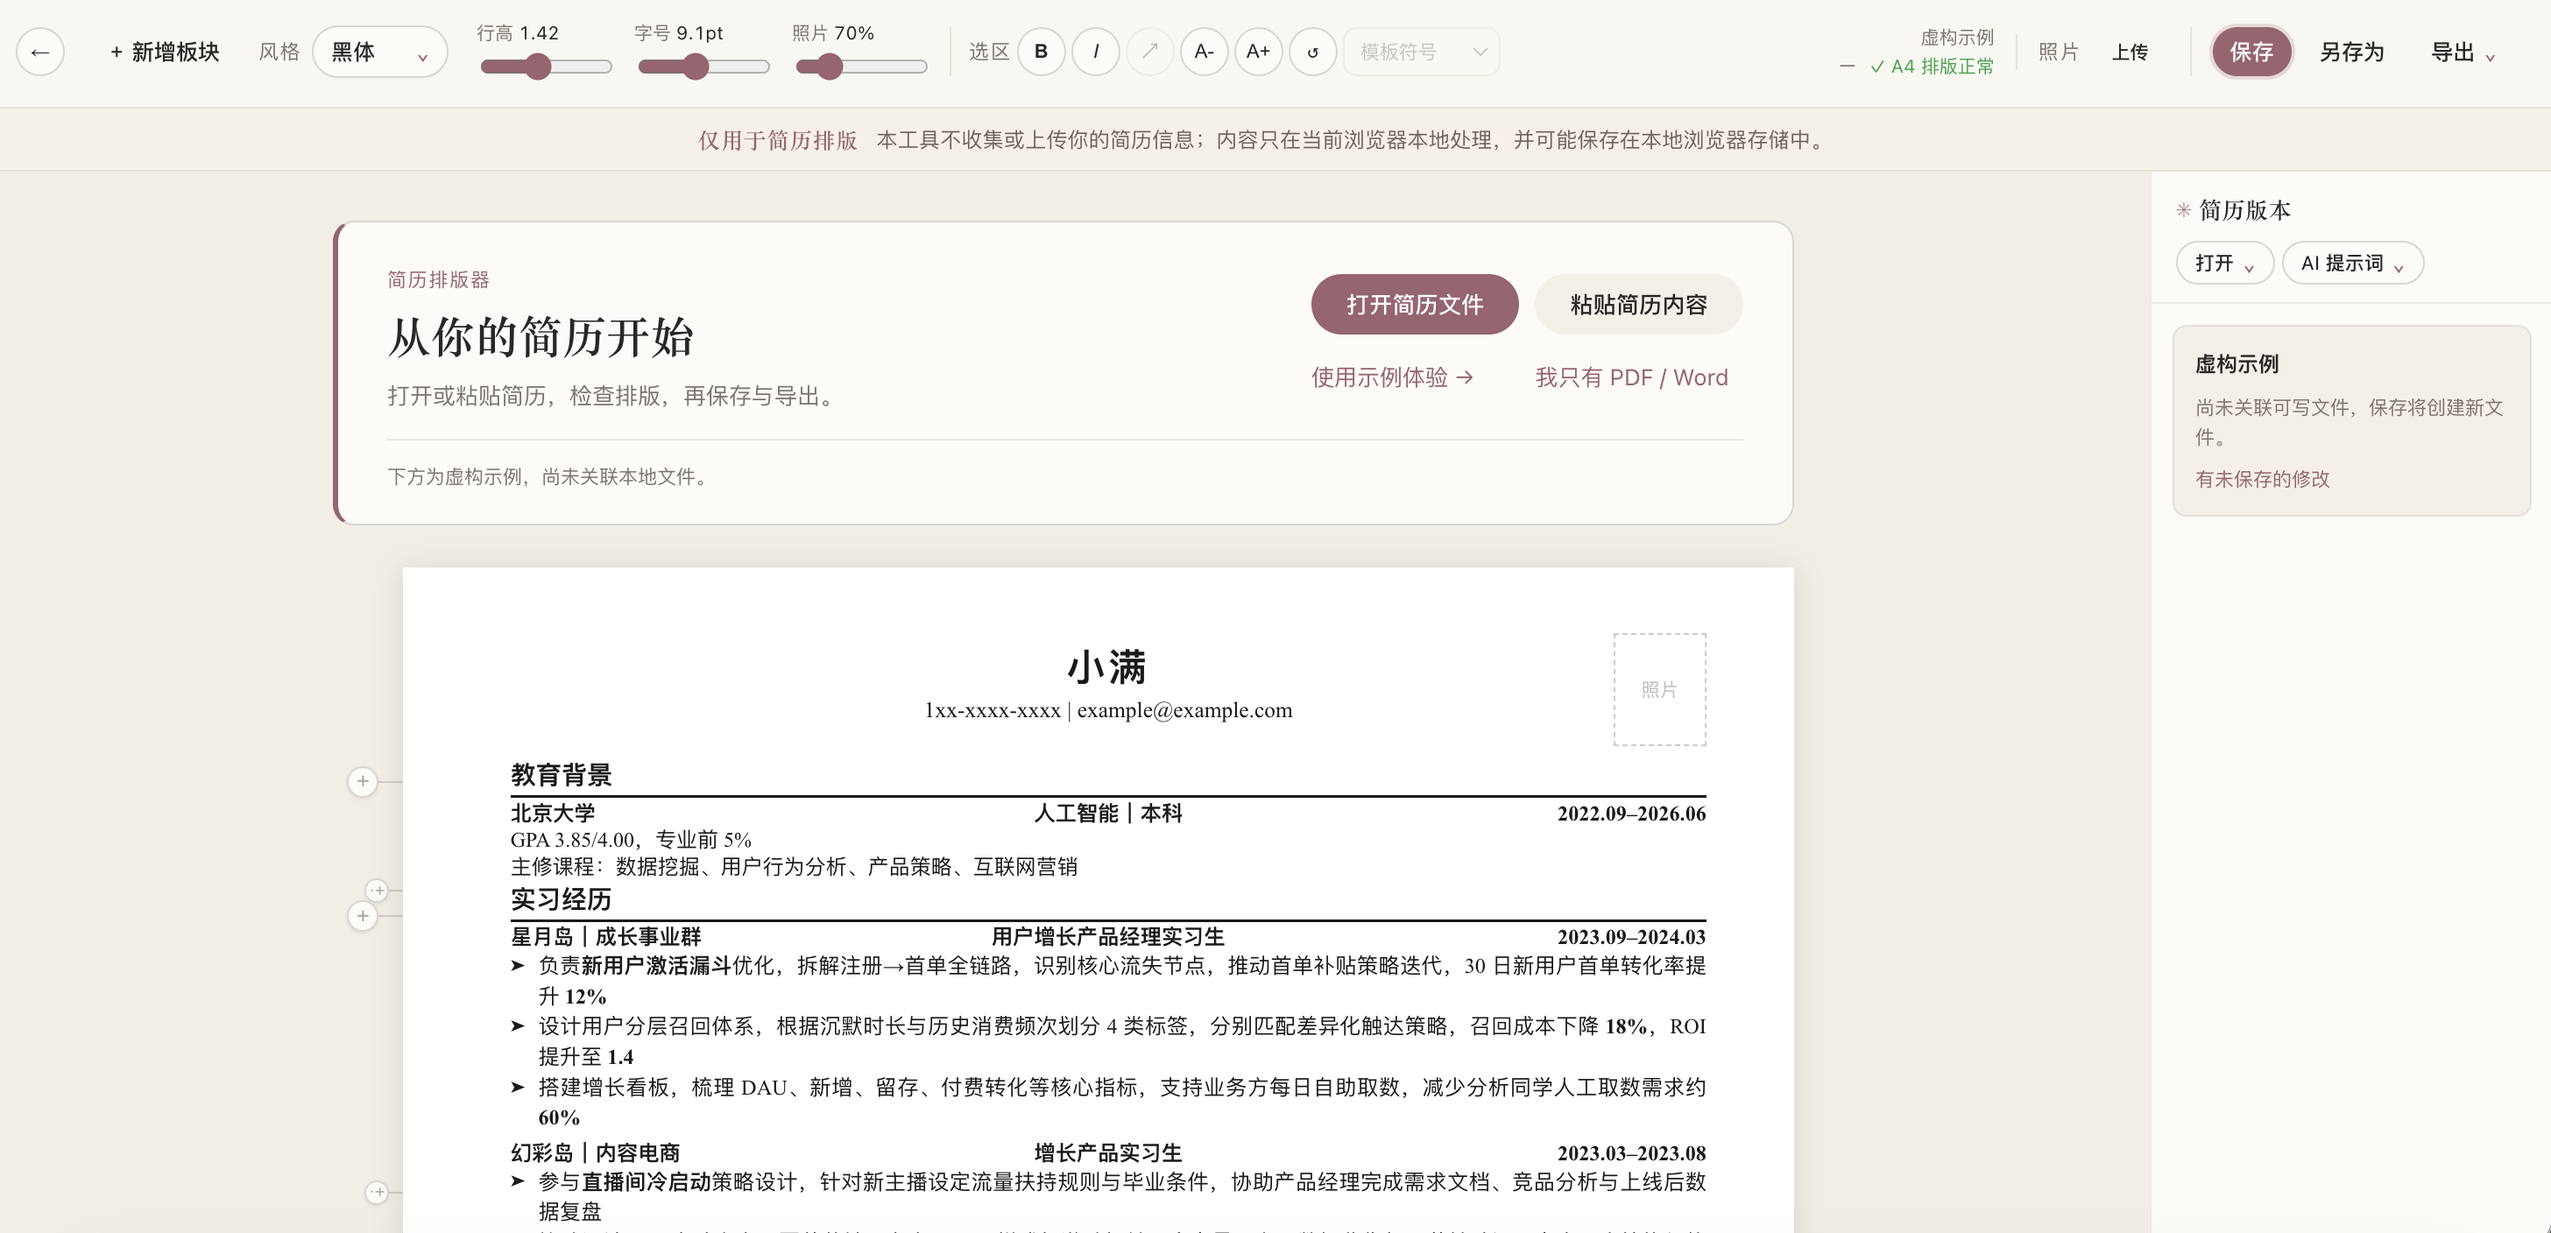
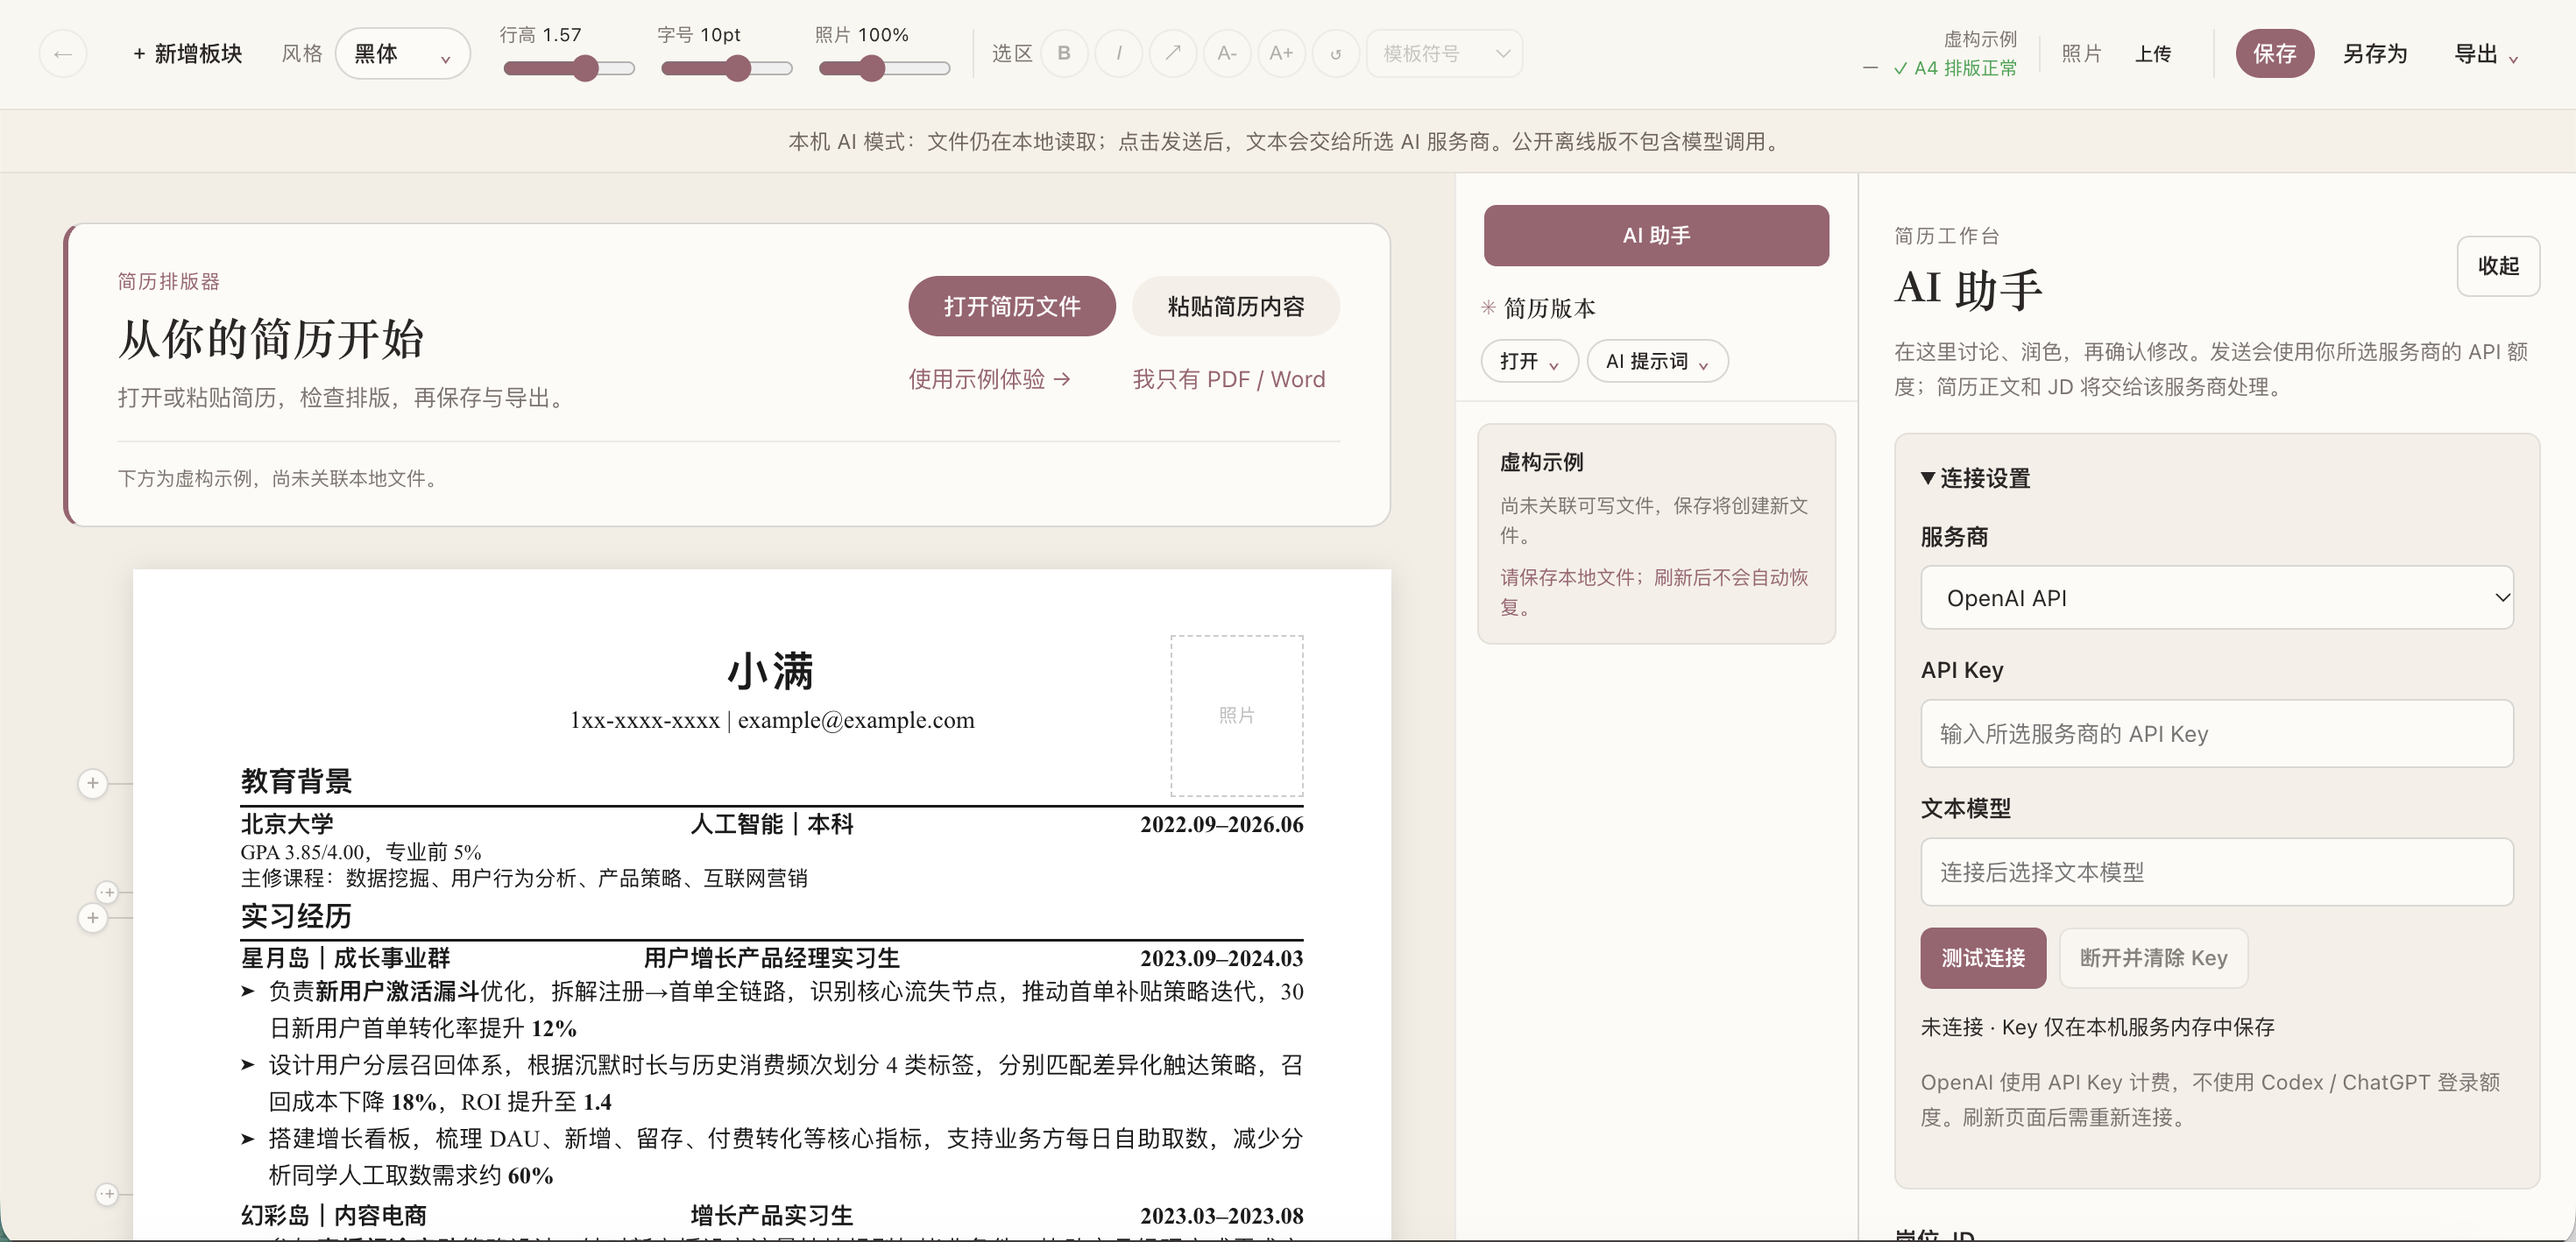
fix: update resume editor screenshot

diff --git a/public/index.html b/public/index.html
@@ -219,7 +219,7 @@
           <article class="vibe-project" aria-labelledby="resume-title">
             <figure class="vibe-project-figure">
               <a class="vibe-screenshot" href="./assets/projects/resume-editor.png" target="_blank" rel="noopener noreferrer" aria-label="放大查看简历排版器截图" data-image-preview>
-                <img src="./assets/projects/resume-editor.png" alt="简历排版器界面：顶部可调整字体、行距和照片大小，中间显示虚构示例简历，右侧为简历版本栏" width="2912" height="1408" loading="lazy" />
+                <img src="./assets/projects/resume-editor.png" alt="简历工具界面：顶部可调整字体、行高、字号和照片大小，中间显示示例简历，右侧为 AI 助手和连接设置" width="2940" height="1418" loading="lazy" />
                 <span class="vibe-zoom" aria-hidden="true">↗</span>
               </a>
               <figcaption>项目界面 · 点击查看大图</figcaption>
@@ -325,7 +325,7 @@
         <h2 id="preview-title">简历排版器 · 项目界面</h2>
         <button class="vibe-lightbox-close" type="button" autofocus>关闭 <span aria-hidden="true">×</span></button>
       </div>
-      <img src="./assets/projects/resume-editor.png" alt="简历排版器的完整界面截图，使用虚构示例简历" width="2912" height="1408" />
+      <img src="./assets/projects/resume-editor.png" alt="简历工具的完整界面截图，包含示例简历和 AI 助手面板" width="2940" height="1418" />
     </dialog>
 
     <footer class="site-footer">

diff --git a/CHANGELOG.md b/CHANGELOG.md
@@ -2,6 +2,10 @@
 
 此文件按时间记录已完成的功能与维护改动。每次 commit 前都要为该提交追加一条记录；具体细节仍以 Git commit 历史为准。
 
+## 2026-10-13
+
+- 将 Vibe Coding 简历工具截图替换为更新后的 AI 助手界面，并同步首页卡片和放大预览的图片尺寸及替代文本。
+
 ## 2026-10-12
 
 - 将 Vibe Coding 完整作品整合到首页连续滚动区域，保留至少一屏的空间、项目截图放大及“敬请期待”卡片；导航改为页内定位，取消“查看作品”跳转，旧作品页链接自动回到首页对应区域。
